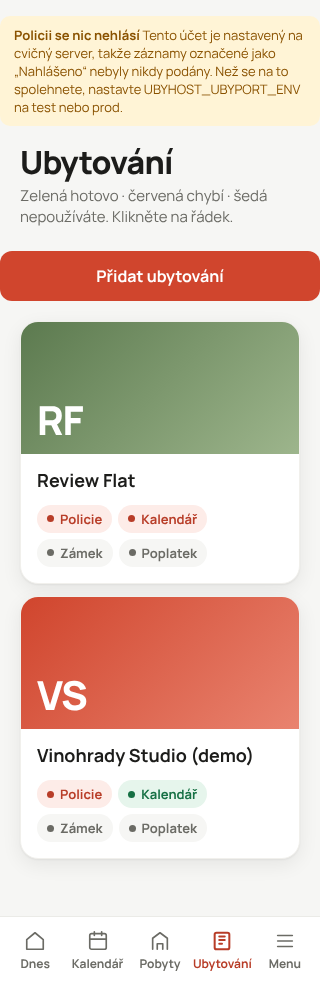
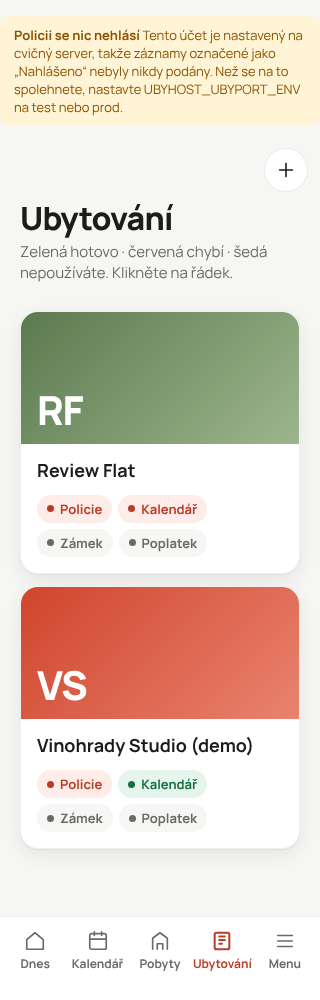
0533 pass 3: round add button on phone as in mockup
Claude-Session: https://claude.ai/code/session_01Cjmb7RTWt49tdnVR6DtQ99

diff --git a/App/app/static/app2.css b/App/app/static/app2.css
@@ -293,7 +293,9 @@ body.v2 .props-card .row-primary-link{display:inline-block;min-height:24px;paddi
 body.v2 .props-card tbody tr.clickable-row{cursor:pointer}
 /* 0533: below 1024 px the rows are the mockup cards (.props-phone) and the table is hidden; from 1024 px the cards are hidden */
 @media (max-width:1023px){body.v2 .props-card{display:none}body.v2 .props-phone .prop{display:block;padding:0;overflow:hidden;text-decoration:none;color:inherit}body.v2 .props-phone .cover{height:132px;display:flex;align-items:flex-end;justify-content:space-between;padding:14px 16px;color:#fff;font-weight:800}body.v2 .props-phone .cover .ini{font-size:40px;letter-spacing:-.03em;line-height:1}body.v2 .props-phone .in{padding:14px 16px 16px}body.v2 .props-phone .in b{font-size:18px;display:block}body.v2 .props-phone .in small{color:var(--ink3);font-size:14px}body.v2 .props-phone .setup{margin-top:12px}body.v2 .head h1:after{display:none}body.v2 .props-phone .in b{line-height:1.4}body.v2 .props-phone .st{font-size:13px;font-weight:700;padding:5px 10px;gap:6px;min-height:0;max-width:100%;white-space:normal}body.v2 .props-phone .st.g{background:var(--oks);color:var(--ok)}body.v2 .props-phone .st.r{background:var(--accs);color:var(--acc-text)}body.v2 .props-phone .st.n{background:#f6f6f4;color:var(--ink3)}}
-@media (min-width:1024px){body.v2 .props-phone{display:none}}
+@media (min-width:1024px){body.v2 .props-phone{display:none}body.v2 .props-top{display:none}}
+/* 0533 pass 3: below 1024 px the properties page shows the mockup's round add button above the title instead of the full-width button */
+@media (max-width:1023px){body.v2 .props-head .btn{display:none}}
 body.v2 .props-phone .cover.c0{background:linear-gradient(135deg,#d0452d,#e9836f)}
 body.v2 .props-phone .cover.c1{background:linear-gradient(135deg,#3f6f8f,#7fa8c2)}
 body.v2 .props-phone .cover.c2{background:linear-gradient(135deg,#5c7a4f,#9db58c)}

diff --git a/App/app/templates/apartments.html b/App/app/templates/apartments.html
@@ -16,7 +16,8 @@
 {{ onboarding_banner(onboarding) }}
 
 {% if rows %}
-<div class="head"><div><h1>{{ t('apartments.title') }}</h1><p class="sub">{{ t('apartments.sub') }}</p></div><a class="btn" href="/apartments/new">{{ t('apartments.add') }}</a></div>
+<div class="top props-top"><span></span><a class="round" href="/apartments/new" aria-label="{{ t('apartments.add') }}">{{ icon('plus', 22) }}</a></div>
+<div class="head props-head"><div><h1>{{ t('apartments.title') }}</h1><p class="sub">{{ t('apartments.sub') }}</p></div><a class="btn" href="/apartments/new">{{ t('apartments.add') }}</a></div>
 <div class="card props-card"><table>
     <thead>
       <tr><th>{{ t('apartments.table.property') }}</th><th>{{ t('apartments.table.address') }}</th><th>{{ t('apartments.table.setup') }}</th>

diff --git a/App/app/templates/base.html b/App/app/templates/base.html
@@ -18,7 +18,7 @@
   <link rel="preload" href="/static/fonts/Manrope-latin.woff2?v=20261101-0495" as="font" type="font/woff2" crossorigin>
   {% if v2 | default(false) %}
   <link rel="stylesheet" href="/static/tokens.css?v=20261101-0495">
-  <link rel="stylesheet" href="/static/app2.css?v=20261101-0533w-0718">
+  <link rel="stylesheet" href="/static/app2.css?v=20261101-0533p3-0718">
   {% else %}
   <link rel="stylesheet" href="/static/tokens.css?v=20261101-0495">
   <link rel="stylesheet" href="/static/app.css?v=20261027-signup-wrap">

diff --git a/App/tests/v2_mockup.py b/App/tests/v2_mockup.py
@@ -71,7 +71,7 @@ PAGES = [
         "path": "/apartments",
         "view": "props",
         "phone_view": "nemovitosti",
-        "phone_selectors": [".big, .head h1", ".card.prop", ".cover", ".cover .ini", ".prop .in b", ".prop .in small", ".card.prop .st.g", ".card.prop .st.r"],
+        "phone_selectors": [".big, .head h1", ".top .round", ".card.prop",".cover", ".cover .ini", ".prop .in b", ".prop .in small", ".card.prop .st.g", ".card.prop .st.r"],
         "selectors": [
             ".side .nav.on", ".head h1", ".head .sub", ".head .btn",
             "main table th", "main table td", ".setup .st.g", ".setup .st.r", "tbody tr .btn.sm.ghost",

diff --git a/docs/tasks/0533-report.md b/docs/tasks/0533-report.md
@@ -48,3 +48,13 @@ Status: review (all green except the known items below)
 - Not done: the 0530 test addition from brief section 3 (phone cards render one a.card.prop per property). Still open.
 - Screenshots were taken with a temporary pytest file (deleted), since the 0710 screenshot helper has no phone view support.
 - Owner steps left: none; no push (branch is local only).
+
+## Pass 3: round add button on phone as in mockup
+- Markup: `apartments.html` adds `<div class="top props-top">` with an empty span and `a.round` (aria-label "Přidat nemovitost" via `apartments.add`, icon `icon('plus', 22)` from `_icons.html`; no `#i-plus` sprite exists in v2). The `.head` gets class `props-head`.
+- CSS (`app2.css`, 0533 block): below 1024 px `body.v2 .props-head .btn` is hidden on this page; from 1024 px `.props-top` is hidden. `.top`/`.round` come from the 0718 block.
+- Key bumped to `20261101-0533p3-0718` in `base.html`; `static_versions.json` rewritten with `--write`; catalog gets `props-top`, `props-head`; design_lint OK.
+- `v2_mockup.py` properties `phone_selectors` gains `.top .round`. Comparison logic unchanged.
+- Tests (from App/, UBYHOST_REQUIRE_BROWSER=1, PLAYWRIGHT_BROWSERS_PATH=/opt/pw-browsers, -p no:cacheprovider): `3 failed, 81 passed in 228.97s`, 0 skipped. Failures are the known ones only: overview-768, properties-768, menu-320. properties-390 and properties-320 pass.
+- context_lint: OK (warning only: commits touched App/ after status.md update).
+- Screenshots: `app-390.png` and `app-320.png` retaken (`/apartments?lang=cs`, full page) with a temporary test file (deleted after the run). Mockup PNGs unchanged.
+- Status: review
